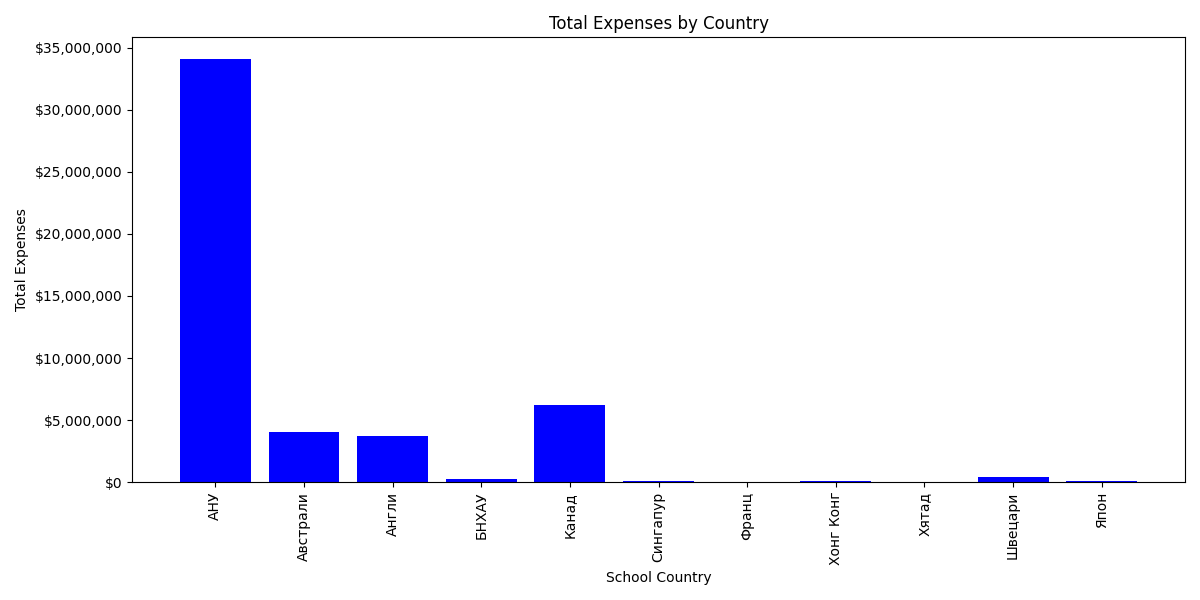
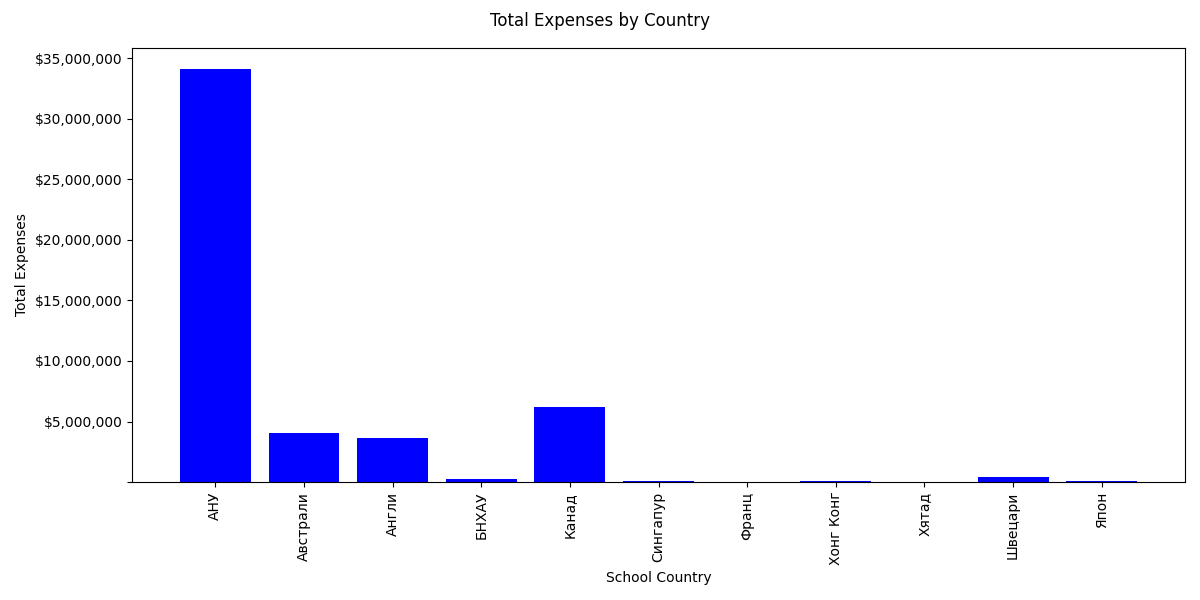
fix lint

diff --git a/main.py b/main.py
@@ -21,16 +21,17 @@ def find_std(df):
     formatted_std = locale.currency(std, grouping=True)
     return formatted_std
 
-def currency_formatter(x, pos):
-    return f"${int(x):,}"
+def currency_formatter(x,pos):
+    if pos:
+        return f"${int(x):,}"
 
 def create_graph(df):
     country_expenses = df.groupby('School Country')['Loan Amount(in USD)'].sum().reset_index()
     fig, ax = plt.subplots(figsize=(12, 6))
+    fig.suptitle('Total Expenses by Country')
     plt.bar(country_expenses['School Country'], country_expenses['Loan Amount(in USD)'], color='blue')
     plt.xlabel('School Country')
     plt.ylabel('Total Expenses')
-    plt.title('Total Expenses by Country')
     plt.xticks(rotation=90)  
     ax.yaxis.set_major_formatter(FuncFormatter(currency_formatter))
     plt.tight_layout()
